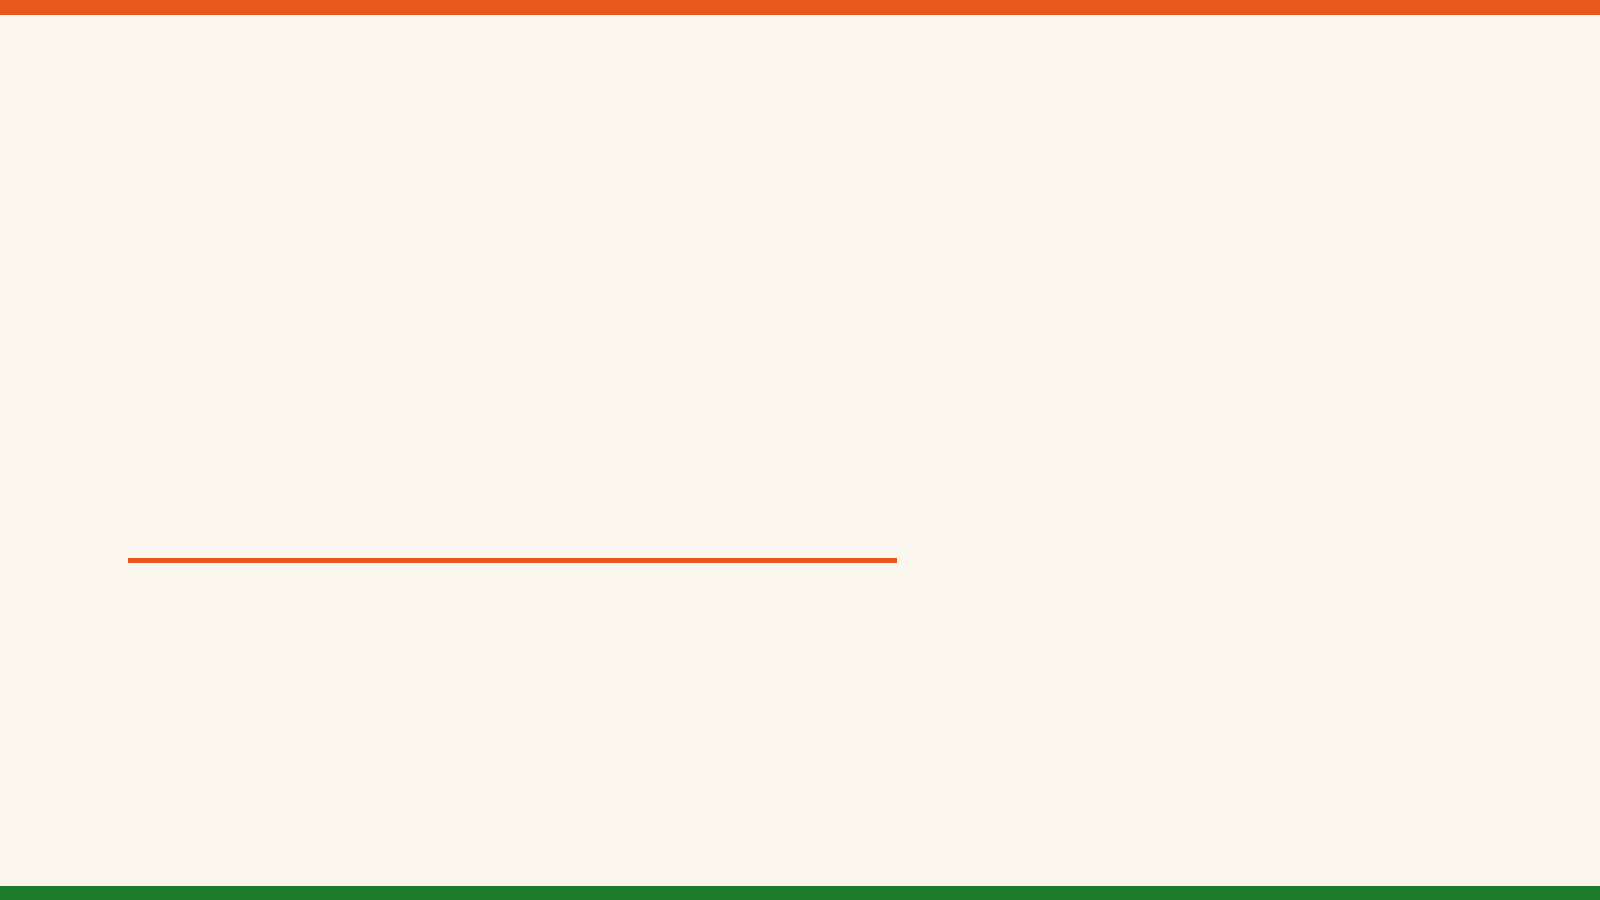
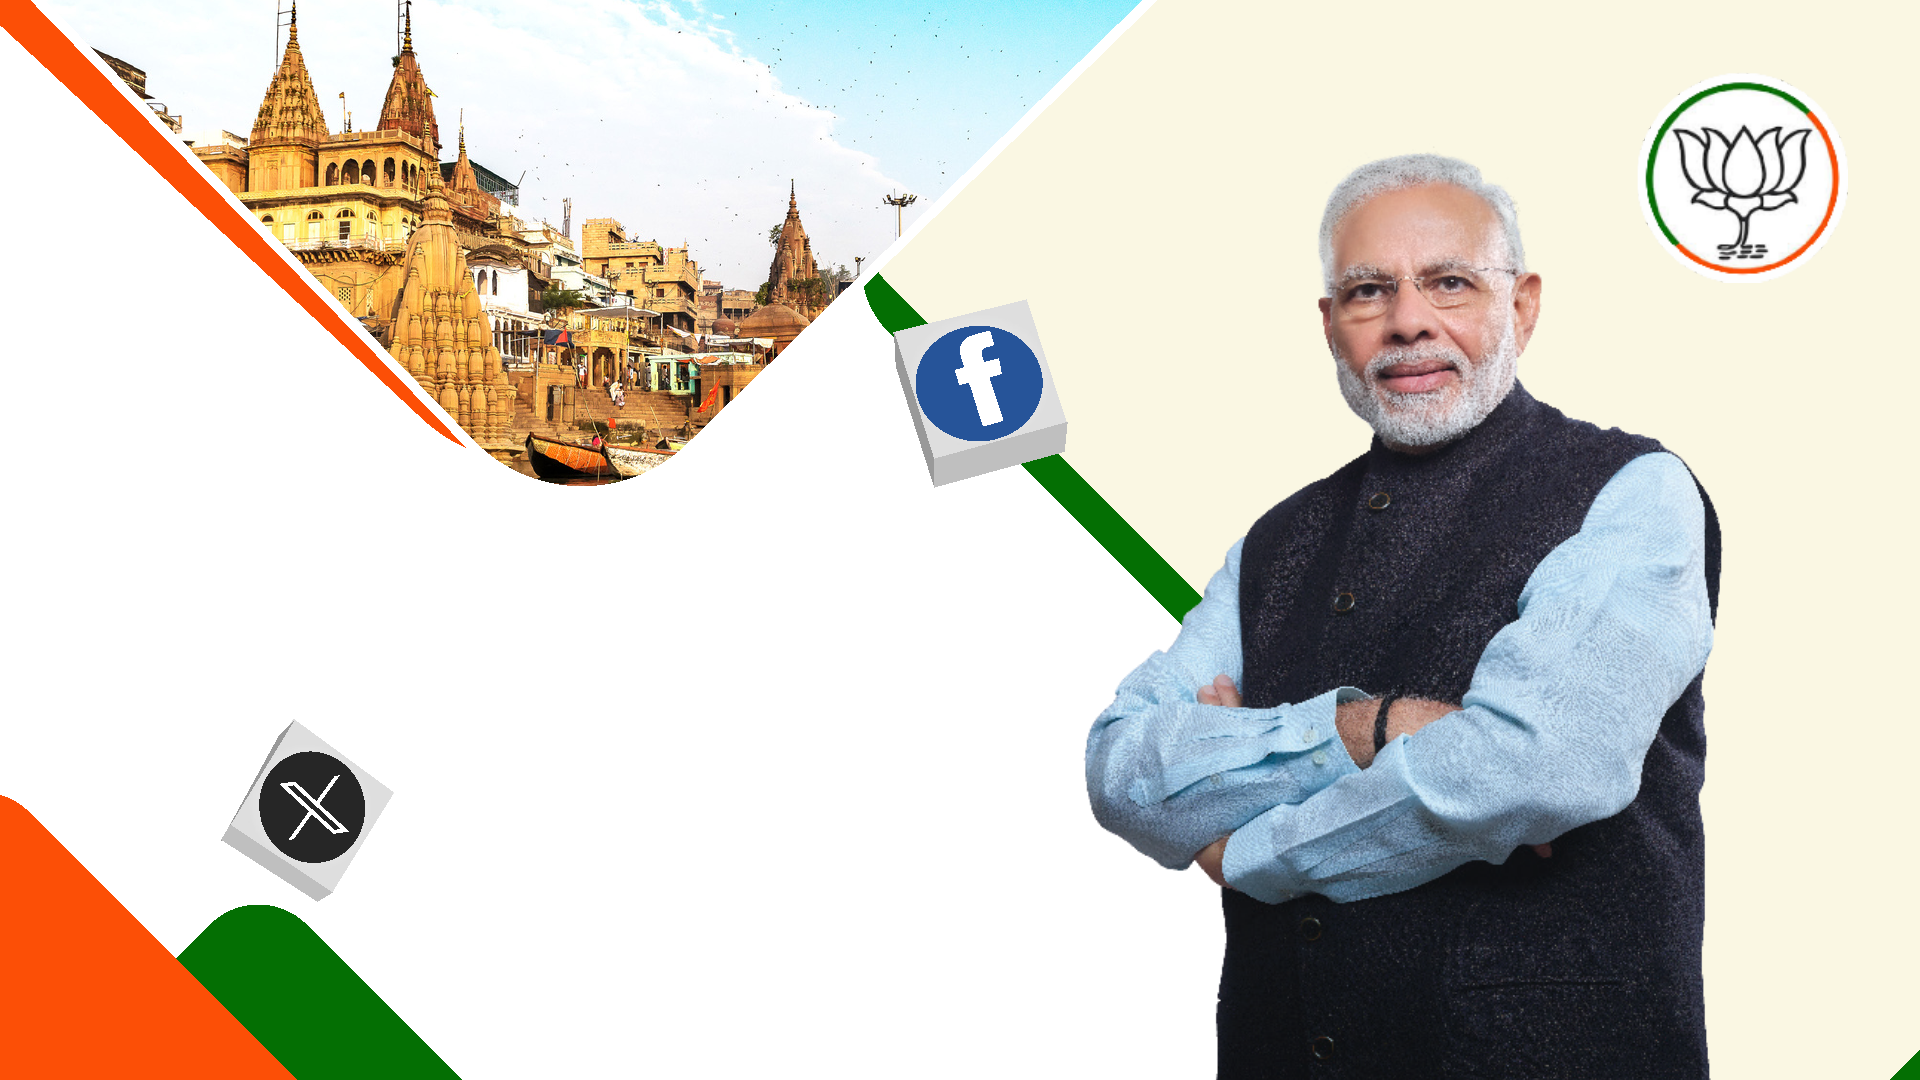
Combined (16:9): rebuild the style from the real Kashi deck
The shipped `combined-16x9` art was a synthetic stand-in — flat pills on a
cream page. It is now the actual Kashi social-media deck (Canva, 10 August
2026): ghat photo, tricolour diagonals, BJP mark, "Handle Name / Social Media
Report" block, the Top-N medallion, the labelled metric pills and the LINK
chip. Page art is that deck with the printed data cleared; the cover and
summary pages come from its own pages 1 and 2.

Every slot position is MEASURED from the deck rather than eyeballed. Its page
is 960x540 pt, which is exactly what a 16:9 landscape profile renders at, so
the deck's own coordinates are the profile's: text baselines and boxes from
`pdftotext -bbox`, colours from `pdftocairo -svg` (#FC4F06 handle, #F15323
date, #231F20 Post N, #046F03 cover date, #4294F5 LINK), pill / logo /
screenshot boxes from colour bboxes on the 144-dpi render.

Two things the reproduction needed:

* `post_total_n` — a new text field printing "9 Posts" without the leading
  "Top", because the deck's medallion already says "Top" in the art and
  `post_total` would have read "Top / Top 9 Posts". Additive to the registry,
  the builder, the designer chips and the field labels.
* the platform-logo circle sits over the ghat photo and no page of the deck
  shows what is behind it, so `scripts/deck_to_template.py` rebuilds that
  triangle by fitting the photo's edge on the rows above the circle and
  cloning from the photo beside it. The app's logo covers most of it again.
[…]

diff --git a/webapp/static/app.js b/webapp/static/app.js
@@ -682,7 +682,7 @@ function initTemplateDesigner() {
   const pages = { post: null, cover: null, summary: null, end: null };
   let cur = "post", items = [], sel = null, editingSlug = "", copyFrom = "", fonts = [];
   const LABELS = { title: "Report title", date: "Date", page: "Page no.", pages: "Pages", index: "#", account_name: "Account", post_link: "Post URL", category: "Category", metrics: "Metrics",
-    handle: "Handle name", section: "Section", post_no: "Post 1", post_total: "Top 9 Posts", platform: "Platform", link: "LINK",
+    handle: "Handle name", section: "Section", post_no: "Post 1", post_total: "Top 9 Posts", post_total_n: "9 Posts", platform: "Platform", link: "LINK",
     "metric.like": "Like →", "metric.impressions": "Impressions →", "metric.views": "Views →", "metric.reach": "Reach →", "metric.comments": "Comments →", "metric.shares": "Shares →", "metric.followers": "Followers →" };
   const PAGE_KINDS = ["post", "cover", "summary", "end"];
   // Same numbers the server renders at: slides at 144 dpi (16:9 -> 1920x1080),

diff --git a/webapp/templates/styles.html b/webapp/templates/styles.html
@@ -86,7 +86,7 @@
       <div><span class="tag" id="t-perpage">no screenshot slot yet</span></div>
       <b>Text</b>
       <div class="chips">
-        {% for f, l in [('handle','Handle name'),('section','Section'),('date','Date'),('title','Report title'),('post_no','Post i'),('post_total','Top N Posts'),('platform','Platform name'),('page','Page no.'),('post_link','Post URL'),('link','LINK button text')] %}
+        {% for f, l in [('handle','Handle name'),('section','Section'),('date','Date'),('title','Report title'),('post_no','Post i'),('post_total','Top N Posts'),('post_total_n','N Posts'),('platform','Platform name'),('page','Page no.'),('post_link','Post URL'),('link','LINK button text')] %}
         <button type="button" class="tag" style="cursor:pointer" data-add-text="{{ f }}">{{ l }}</button>{% endfor %}
       </div>
       <b>Metric values <span class="faint" style="text-transform:none;letter-spacing:0">(from the sheet columns)</span></b>

diff --git a/scripts/deck_to_template.py b/scripts/deck_to_template.py
@@ -1,0 +1,170 @@
+"""Turn the Kashi 10-08-2026 Canva deck into template ART for combined-16x9.
+
+The deck's pages carry both the design AND one report's data. A template page
+image must carry the design ONLY — the app prints the handle, the date, the
+metric values, the post number and the platform logo into its slots, and paints
+the screenshot into the image slot. So every printed value is cleared here, and
+nothing else is touched.
+
+Three regions need more than a flat fill:
+
+  * the value pills — cleared by redrawing the pill's own stadium shape in its
+    own colour, so the rounded ends survive a value whose digits reach them;
+  * the LINK chip — only the word is cleared, inside the white inner plate; the
+    chain icon and the orange pill stay, and the app prints LINK (which is what
+    carries the hyperlink) back into the same place;
+  * the platform-logo circle sits partly over the ghat photo, and no page of
+    the deck shows what is behind it. The photo's edge is a straight diagonal
+    there (fitted on the rows just above the circle), so the small triangle of
+    photo the circle hides is cloned from the photo immediately to its left and
+    everything right of the edge becomes white. The app's logo covers most of
+    it again.
+
+CALIBRATED TO THE 10 AUGUST 2026 DECK. Every rectangle below is a measured
+position in that deck's own points (its page is 960x540 pt, which is exactly
+what the profile renders at, so deck points ARE profile points). If the design
+moves, re-measure before re-running — do not assume these still fit:
+
+    pdftotext -bbox -f 3 -l 3 deck.pdf p3.html    # text baselines and boxes
+    pdftocairo -svg -f 3 -l 3 deck.pdf p3.svg     # exact colours per text run
+
+and open the result (RULEBOOK rule 3) — a mask that is 2pt out eats a line of
+the art, and the page still looks plausible in a thumbnail.
+
+Run: python scripts/deck_to_template.py <deck.pdf> <outdir>
+then copy post/cover/summary.png into profiles/registry/assets/combined-16x9/.
+"""
+import subprocess
+import sys
+from pathlib import Path
+
+from PIL import Image, ImageDraw
+
+PDF = sys.argv[1]
+OUT = Path(sys.argv[2])
+OUT.mkdir(parents=True, exist_ok=True)
+W, H = 1920, 1080          # 16:9 at 144 dpi — 960 x 540 pt, the deck's own size
+WHITE = (255, 255, 255)
+
+
+def render(page: int) -> Image.Image:
+    dst = OUT / f"_raw{page}"
+    subprocess.run(["pdftoppm", "-png", "-f", str(page), "-l", str(page),
+                    "-scale-to-x", str(W), "-scale-to-y", str(H), PDF, str(dst)],
+                   check=True)
+    im = Image.open(sorted(OUT.glob(f"_raw{page}-*.png"))[0]).convert("RGB")
+    return im
+
+
+def pt(v):                 # points -> pixels (the deck's page is 960 x 540 pt)
+    return round(v * 2)
+
+
+def clear(im, box_pt, fill):
+    x0, y0, x1, y1 = box_pt
+    ImageDraw.Draw(im).rectangle([pt(x0), pt(y0), pt(x1), pt(y1)], fill=fill)
+
+
+def clear_pill(im, x0, y0, x1, y1, fill):
+    """Repaint a stadium exactly over the pill, so digits that run into its
+    rounded ends go without the ends going with them."""
+    ImageDraw.Draw(im).rounded_rectangle([x0, y0, x1, y1],
+                                         radius=(y1 - y0) / 2, fill=fill)
+
+
+p1, p2, p3 = render(1), render(2), render(3)
+
+CREAM = p3.getpixel((pt(40), pt(120)))
+PILL = p3.getpixel((pt(545), pt(262)))
+MEDAL = p3.getpixel((pt(210), pt(410)))
+print("sampled:", {"cream": CREAM, "pill": PILL, "medallion": MEDAL})
+
+# --------------------------------------------------------------------------- #
+# POST PAGE
+# --------------------------------------------------------------------------- #
+post = p3.copy()
+
+# The handle sits between the "Handle Name" label (ink ends 153.3pt) and the
+# "Social Media Report" line (ink starts 185.7pt) — clear only that band, or
+# the art loses a line.
+clear(post, (40, 155.5, 355, 184.6), CREAM)      # handle
+clear(post, (130, 206.5, 285, 228), CREAM)       # date
+# "N Posts" in the medallion. The band must stay INSIDE the circle: at y=394
+# the circle spans x 188..291, so 194..286 is safe and still wide enough for a
+# two-digit count.
+clear(post, (194, 368, 286, 394), MEDAL)
+
+for (x0, y0, x1, y1) in ((1072, 506, 1274, 566),      # Like
+                         (1072, 588, 1274, 646),      # Post Impression
+                         (1072, 676, 1274, 736)):     # Video Views
+    clear_pill(post, x0, y0, x1, y1, PILL)
+
+# the word LINK only — inside the chip's white plate, icon untouched
+LINK_BLUE = p3.getpixel((1160, 790))
+ImageDraw.Draw(post).rectangle([1148, 762, 1242, 812], fill=WHITE)
+
+clear(post, (768, 94, 906, 148), WHITE)          # "Top N Posts" + "Post N"
+clear(post, (658, 166, 914, 540), WHITE)         # the screenshot slot
+
+# --- the platform logo: rebuild the photo edge it sits on ------------------- #
+def photo_edge_fit(im):
+    """x = m*y + c for the photo's right edge, from the rows above the logo."""
+    a = im.load()
+    pts = []
+    for y in range(110, 165):
+        for x in range(1700, 1100, -1):
+            c = a[x, y]
+            if all(abs(v - 255) <= 12 for v in c):
+                continue
+            if c[0] > 200 and c[1] < 130 and c[2] < 90:      # the orange ribbon
+                continue
+            pts.append((y, x))
+            break
+    n = len(pts)
+    my = sum(p[0] for p in pts) / n
+    mx = sum(p[1] for p in pts) / n
+    m = (sum((p[0] - my) * (p[1] - mx) for p in pts)
+         / sum((p[0] - my) ** 2 for p in pts))
+    return m, mx - m * my, max(abs(m * y + (mx - m * my) - x) for y, x in pts)
+
+
+m, c0, resid = photo_edge_fit(p3)
+print(f"photo edge: x = {m:.3f}y + {c0:.1f}  (max residual {resid:.1f}px)")
+
+src = p3.copy()                       # clone source: the untouched page
+CLONE_DX = 70
+for y in range(pt(78), pt(240)):
+    edge = m * y + c0
+    for x in range(1290, 1560):
+        if x <= edge:
+            post.putpixel((x, y), src.getpixel((max(0, x - CLONE_DX), y)))
+        elif post.getpixel((x, y)) != WHITE:
+            post.putpixel((x, y), WHITE)
+
+post.save(OUT / "post.png", "PNG", optimize=True)
+
+# --------------------------------------------------------------------------- #
+# COVER
+# --------------------------------------------------------------------------- #
+cover = p1.copy()
+# Both rects stop just past the ink: the green diagonal runs at x>=1060px
+# behind the title, and Modi's sleeve starts at x=1085px beside the date.
+clear(cover, (85, 268, 527, 345), WHITE)         # "Kashi Report"
+clear(cover, (233, 381, 538, 427), WHITE)        # "10 August 2026"
+cover.save(OUT / "cover.png", "PNG", optimize=True)
+
+# --------------------------------------------------------------------------- #
+# SUMMARY
+# --------------------------------------------------------------------------- #
+summary = p2.copy()
+# The whole table INCLUDING its outer rule — the app draws its own.
+clear(summary, (337, 240, 945, 536), WHITE)
+clear(summary, (130, 206.5, 285, 228), CREAM)    # the date
+summary.save(OUT / "summary.png", "PNG", optimize=True)
+
+for f in OUT.glob("_raw*.png"):
+    f.unlink()
+print("LINK blue sampled:", LINK_BLUE)
+for name in ("post", "cover", "summary"):
+    p = OUT / f"{name}.png"
+    print(f"  {name}.png  {Image.open(p).size}  {p.stat().st_size // 1024} KB")

diff --git a/profiles/registry.py b/profiles/registry.py
@@ -87,11 +87,14 @@ _TEMPLATE_PAGES = {"post", "cover", "end", "summary"}
 # Text slots. `metric.<key>` prints that metric's VALUE (from the sheet columns
 # or a capture engine); `post_no` / `post_total` count within the post's section;
 # `link` prints the word LINK as a hyperlink (the button art is in the design).
+# `post_total_n` is `post_total` without the leading "Top" — for a design whose
+# art already says "Top" (the Kashi medallion), where printing it again would
+# read "Top / Top 9 Posts".
 _METRIC_KEYS = ("like", "impressions", "views", "reach", "comments", "shares",
                 "followers", "reactions")
 _TEXT_FIELDS = {"title", "date", "page", "pages", "index", "account_name",
                 "post_link", "category", "metrics", "section", "handle",
-                "post_no", "post_total", "link", "platform"} | {
+                "post_no", "post_total", "post_total_n", "link", "platform"} | {
                     f"metric.{k}" for k in _METRIC_KEYS}
 _TEXT_KEYS = {"field", "x", "y", "w", "h", "size_pt", "color", "align", "page",
               "bold", "font"}

diff --git a/profiles/tpl_builder.py b/profiles/tpl_builder.py
@@ -30,7 +30,8 @@ FIELD_LABELS = {
     "pages": "Pages", "index": "#", "account_name": "Account",
     "post_link": "Post URL", "category": "Category", "metrics": "Metrics",
     "handle": "Handle name", "section": "Section", "post_no": "Post 1",
-    "post_total": "Top 9 Posts", "platform": "Platform", "link": "LINK",
+    "post_total": "Top 9 Posts", "post_total_n": "9 Posts",
+    "platform": "Platform", "link": "LINK",
     **{f"metric.{k}": f"{k.title()} value" for k in
        ("like", "impressions", "views", "reach", "comments", "shares",
         "followers", "reactions")},
@@ -67,6 +68,9 @@ def _field_value(field, ctx):
     if field == "post_total":
         n = ctx.get("post_total", "")
         return f"Top {n} Post{'s' if n != 1 else ''}"
+    if field == "post_total_n":
+        n = ctx.get("post_total", "")
+        return f"{n} Post{'s' if n != 1 else ''}"
     v = ctx.get(field, "")
     return "" if v is None else str(v)
 

diff --git a/RULEBOOK.md b/RULEBOOK.md
@@ -648,6 +648,19 @@ before touching the engine.
     Like / Impressions / Views / Reach columns (`netlinks.metric_columns`),
     written through the canonical `input.xlsx` (`uploads.write_canonical_xlsx`
     keeps them). Nothing scrapes Insights numbers — they are not public.
+    **Its art and every slot position come from the Kashi deck** (Canva,
+    10 August 2026, 960x540 pt — the same page size the profile renders at, so
+    the deck's own point coordinates ARE the profile's). Page images are that
+    deck with the printed data cleared; slot positions were measured from it
+    (`pdftotext -bbox` for text baselines, colour bboxes for the pills, logo
+    and screenshot). Four things it deliberately does NOT reproduce, because a
+    template page is one image: the metric ROW LABELS are art, so a section
+    the deck labels "Post Reach" or "ReTweets" still reads "Video Views";
+    values print exactly as the sheet holds them (`18234`, not `18,234`);
+    the type is Helvetica, not the deck's Poppins (a style may ship fonts —
+    §18a — but a *shipped* style's font file would have to live in the repo);
+    and the summary table is `tpl_builder`'s, so its divider sits at 62% of
+    the box, not the deck's 50%.
 11. **Slide pages are landscape 16:9 / 4:3.** `PAGE_SIZES` stores them
     portrait-normalised; a template style for Canva slides is
     `size: "16:9", orientation: "landscape"`. The designer picks paper from
